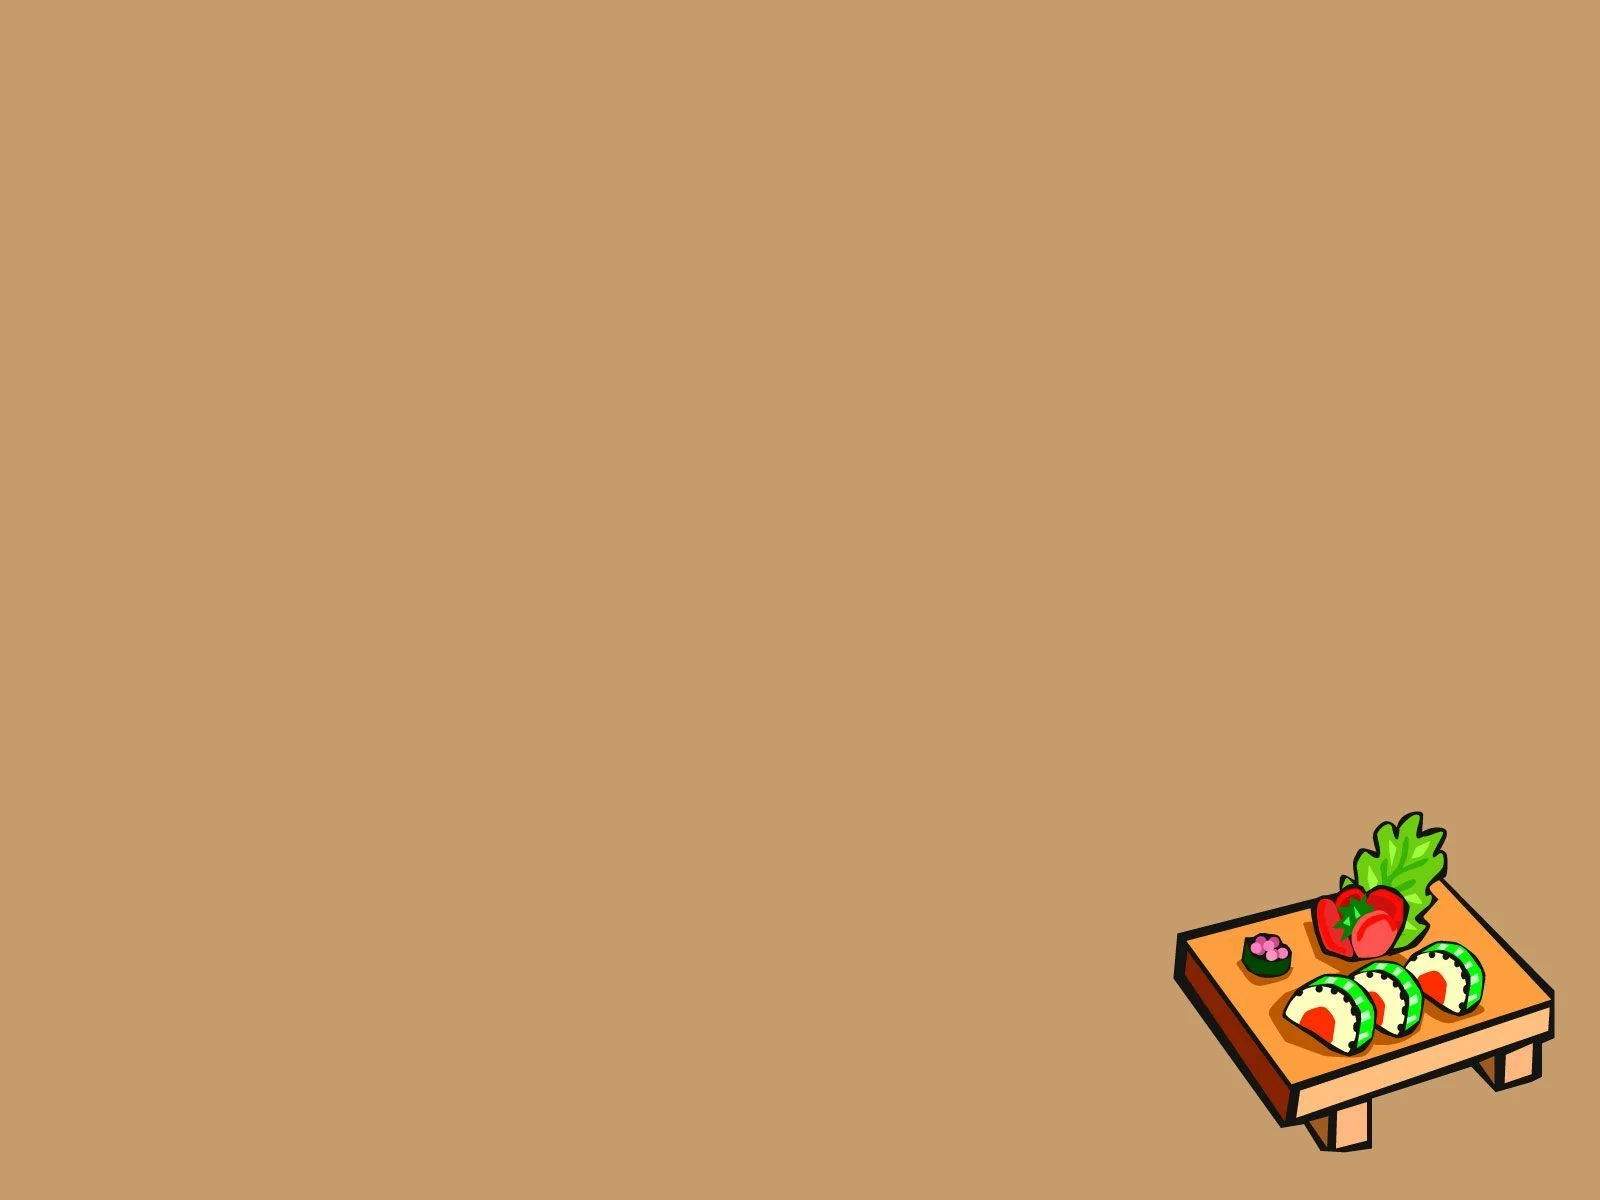
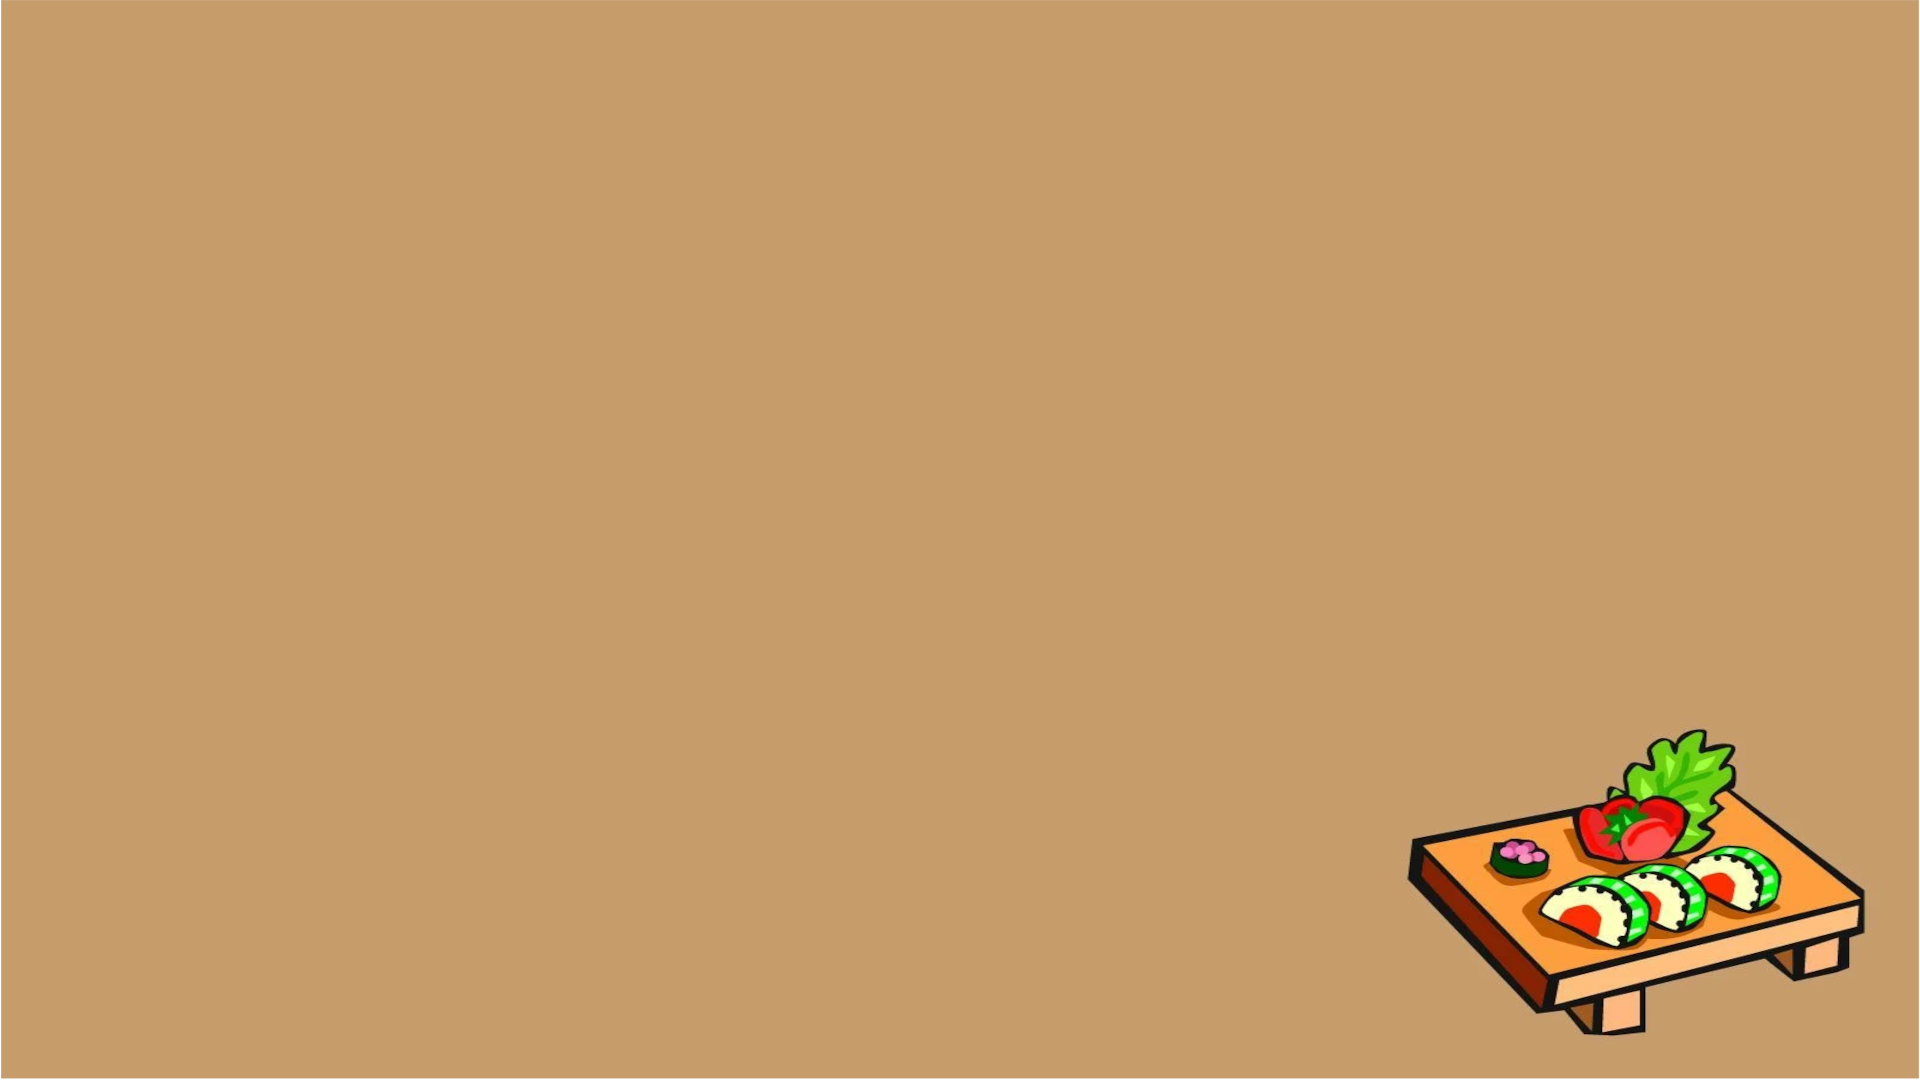
update

Changed region(s): [[0.75, 0.6722, 0.9688, 0.9778], [0.9688, 0.9778, 1.0, 1.0], [0.0, 0.9778, 0.0312, 1.0]]

diff --git a/prova/assets/css/style.css b/prova/assets/css/style.css
@@ -1,28 +1,29 @@
 @import url('https://fonts.googleapis.com/css2?family=Merienda&display=swap');
 
 body{
-    background-image: url('https://raw.githubusercontent.com/Marcel0Henrique/formulario_contato/master/img/bg.jpg');
+    background-image: url('/prova/assets/img/bg.png');
     background-attachment: fixed;
+    background-position: center;
     background-size: 100%;
     background-repeat: no-repeat;
     background-color: black;
 }
 
 hr { 
-    border-color: white;
+    border-color: rgb(0, 0, 0);
 }
 label{
     font-weight: bold;
-    color: white;
+    
 }
 
 .al-activate {
-    background-color: rgb(100, 33, 163) !important;
+    background-color: #503e2a !important;
     font-weight: bolder;
 }
 
 .title{
-    color: white;
+    font-weight: bold;
     text-align: center;
     font-family: 'Merienda', cursive;
 }
@@ -31,13 +32,11 @@ label{
     font-weight: bolder;
     font-family: Arial, Helvetica, sans-serif;
     line-height: 35px;
+    
 }
 
 .infoPedido{
     font-weight: lighter;
-    color: rgb(255, 255, 255);
+    color: #302110;
 }
 
-p{
-    color: white;
-}
